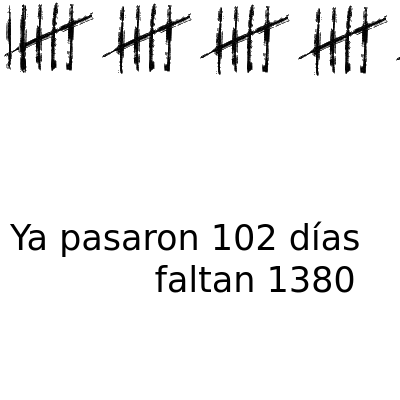
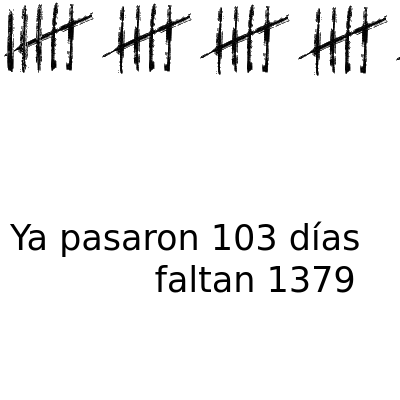
deploy: 28882f26f23b9f53dac6c4991168e610486d0e44

Changed region(s): [[0.0, 0.0, 0.12, 0.18], [0.78, 0.66, 0.9, 0.75], [0.63, 0.57, 0.69, 0.63]]

diff --git a/index.html b/index.html
@@ -3,19 +3,19 @@
   <head>
     <meta charset='utf-8'>
     <meta http-equiv='X-UA-Compatible' content='IE=edge'>
-    <title>Ya pasaron 102 días y faltan 1380</title>
-    <meta name="description" content="Ya pasaron 102 días y faltan 1380">
-    <meta itemprop="name" content="Ya pasaron 102 días y faltan 1380">
-    <meta itemprop="description" content="Ya pasaron 102 días y faltan 1380">
+    <title>Ya pasaron 103 días y faltan 1379</title>
+    <meta name="description" content="Ya pasaron 103 días y faltan 1379">
+    <meta itemprop="name" content="Ya pasaron 103 días y faltan 1379">
+    <meta itemprop="description" content="Ya pasaron 103 días y faltan 1379">
     <meta name="twitter:card" content="summary">
-    <meta name="twitter:title" content="Ya pasaron 102 días y faltan 1380">
-    <meta name="twitter:description" content="Ya pasaron 102 días y faltan 1380">
+    <meta name="twitter:title" content="Ya pasaron 103 días y faltan 1379">
+    <meta name="twitter:description" content="Ya pasaron 103 días y faltan 1379">
     <meta name="twitter:creator" content="@FloriusWasTaken">
     <meta name="twitter:image" content="https://pasaron.meme.ar/capture.png">
-    <meta property="og:title" content="Ya pasaron 102 días y faltan 1380">
-    <meta property="og:description" content="Ya pasaron 102 días y faltan 1380">
+    <meta property="og:title" content="Ya pasaron 103 días y faltan 1379">
+    <meta property="og:description" content="Ya pasaron 103 días y faltan 1379">
     <meta property="og:url" content="https://pasaron.meme.ar">
-    <meta property="og:site_name" content="Ya pasaron 102 días y faltan 1380">
+    <meta property="og:site_name" content="Ya pasaron 103 días y faltan 1379">
     <meta property="og:type" content="website">
     <meta property="og:image" content="https://pasaron.meme.ar/capture.png">
     <meta name="theme-color" content="#dc143c">
@@ -69,18 +69,18 @@
         padding: 0;
       }
     </style>
-    <title>Ya pasaron 102 días y faltan 1380</title>
+    <title>Ya pasaron 103 días y faltan 1379</title>
   </head>
   <body>
     <div id="main">
       <img src="img/5.png"/><img src="img/5.png"/><img src="img/5.png"/><img src="img/5.png"/><img src="img/5.png"/><img src="img/5.png"/><img src="img/5.png"/><img src="img/5.png"/><img src="img/5.png"/><img src="img/5.png"/><img src="img/5.png"/><img src="img/5.png"/><img src="img/5.png"/><img src="img/5.png"/><img src="img/5.png"/><img src="img/5.png"/><img src="img/5.png"/><img src="img/5.png"/><img src="img/5.png"/><img src="img/5.png"/>
       
-        <img src="img/2.png"/>
+        <img src="img/3.png"/>
       
     </div>
     <footer id="footer">
       <marquee id="marquee" class="is-vertical-align">
-        Ya pasaron 102 días y faltan 1380
+        Ya pasaron 103 días y faltan 1379
       </marquee>
       <ul>
         <li>
